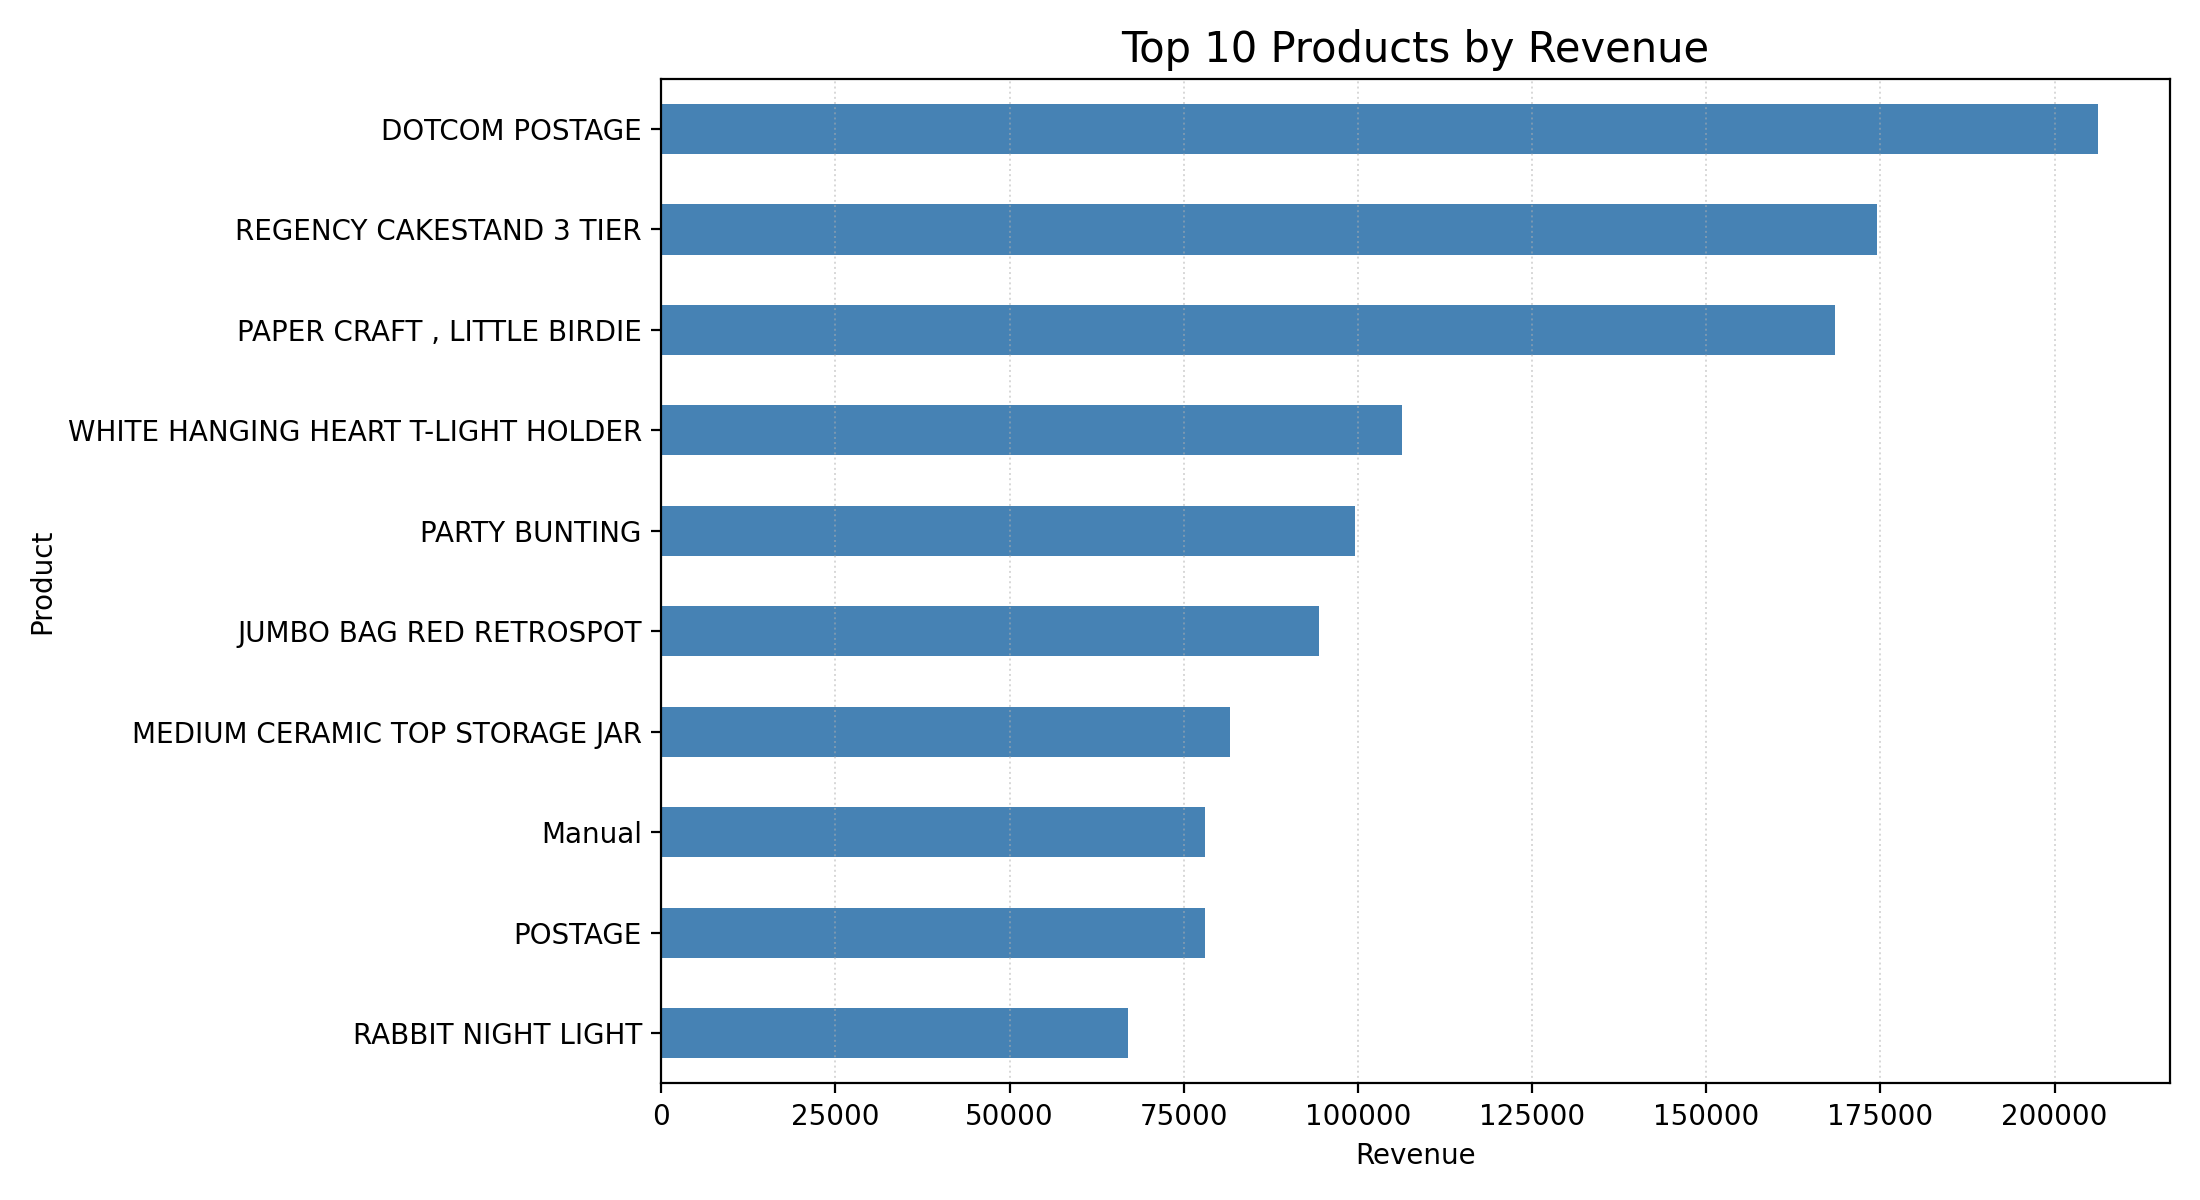
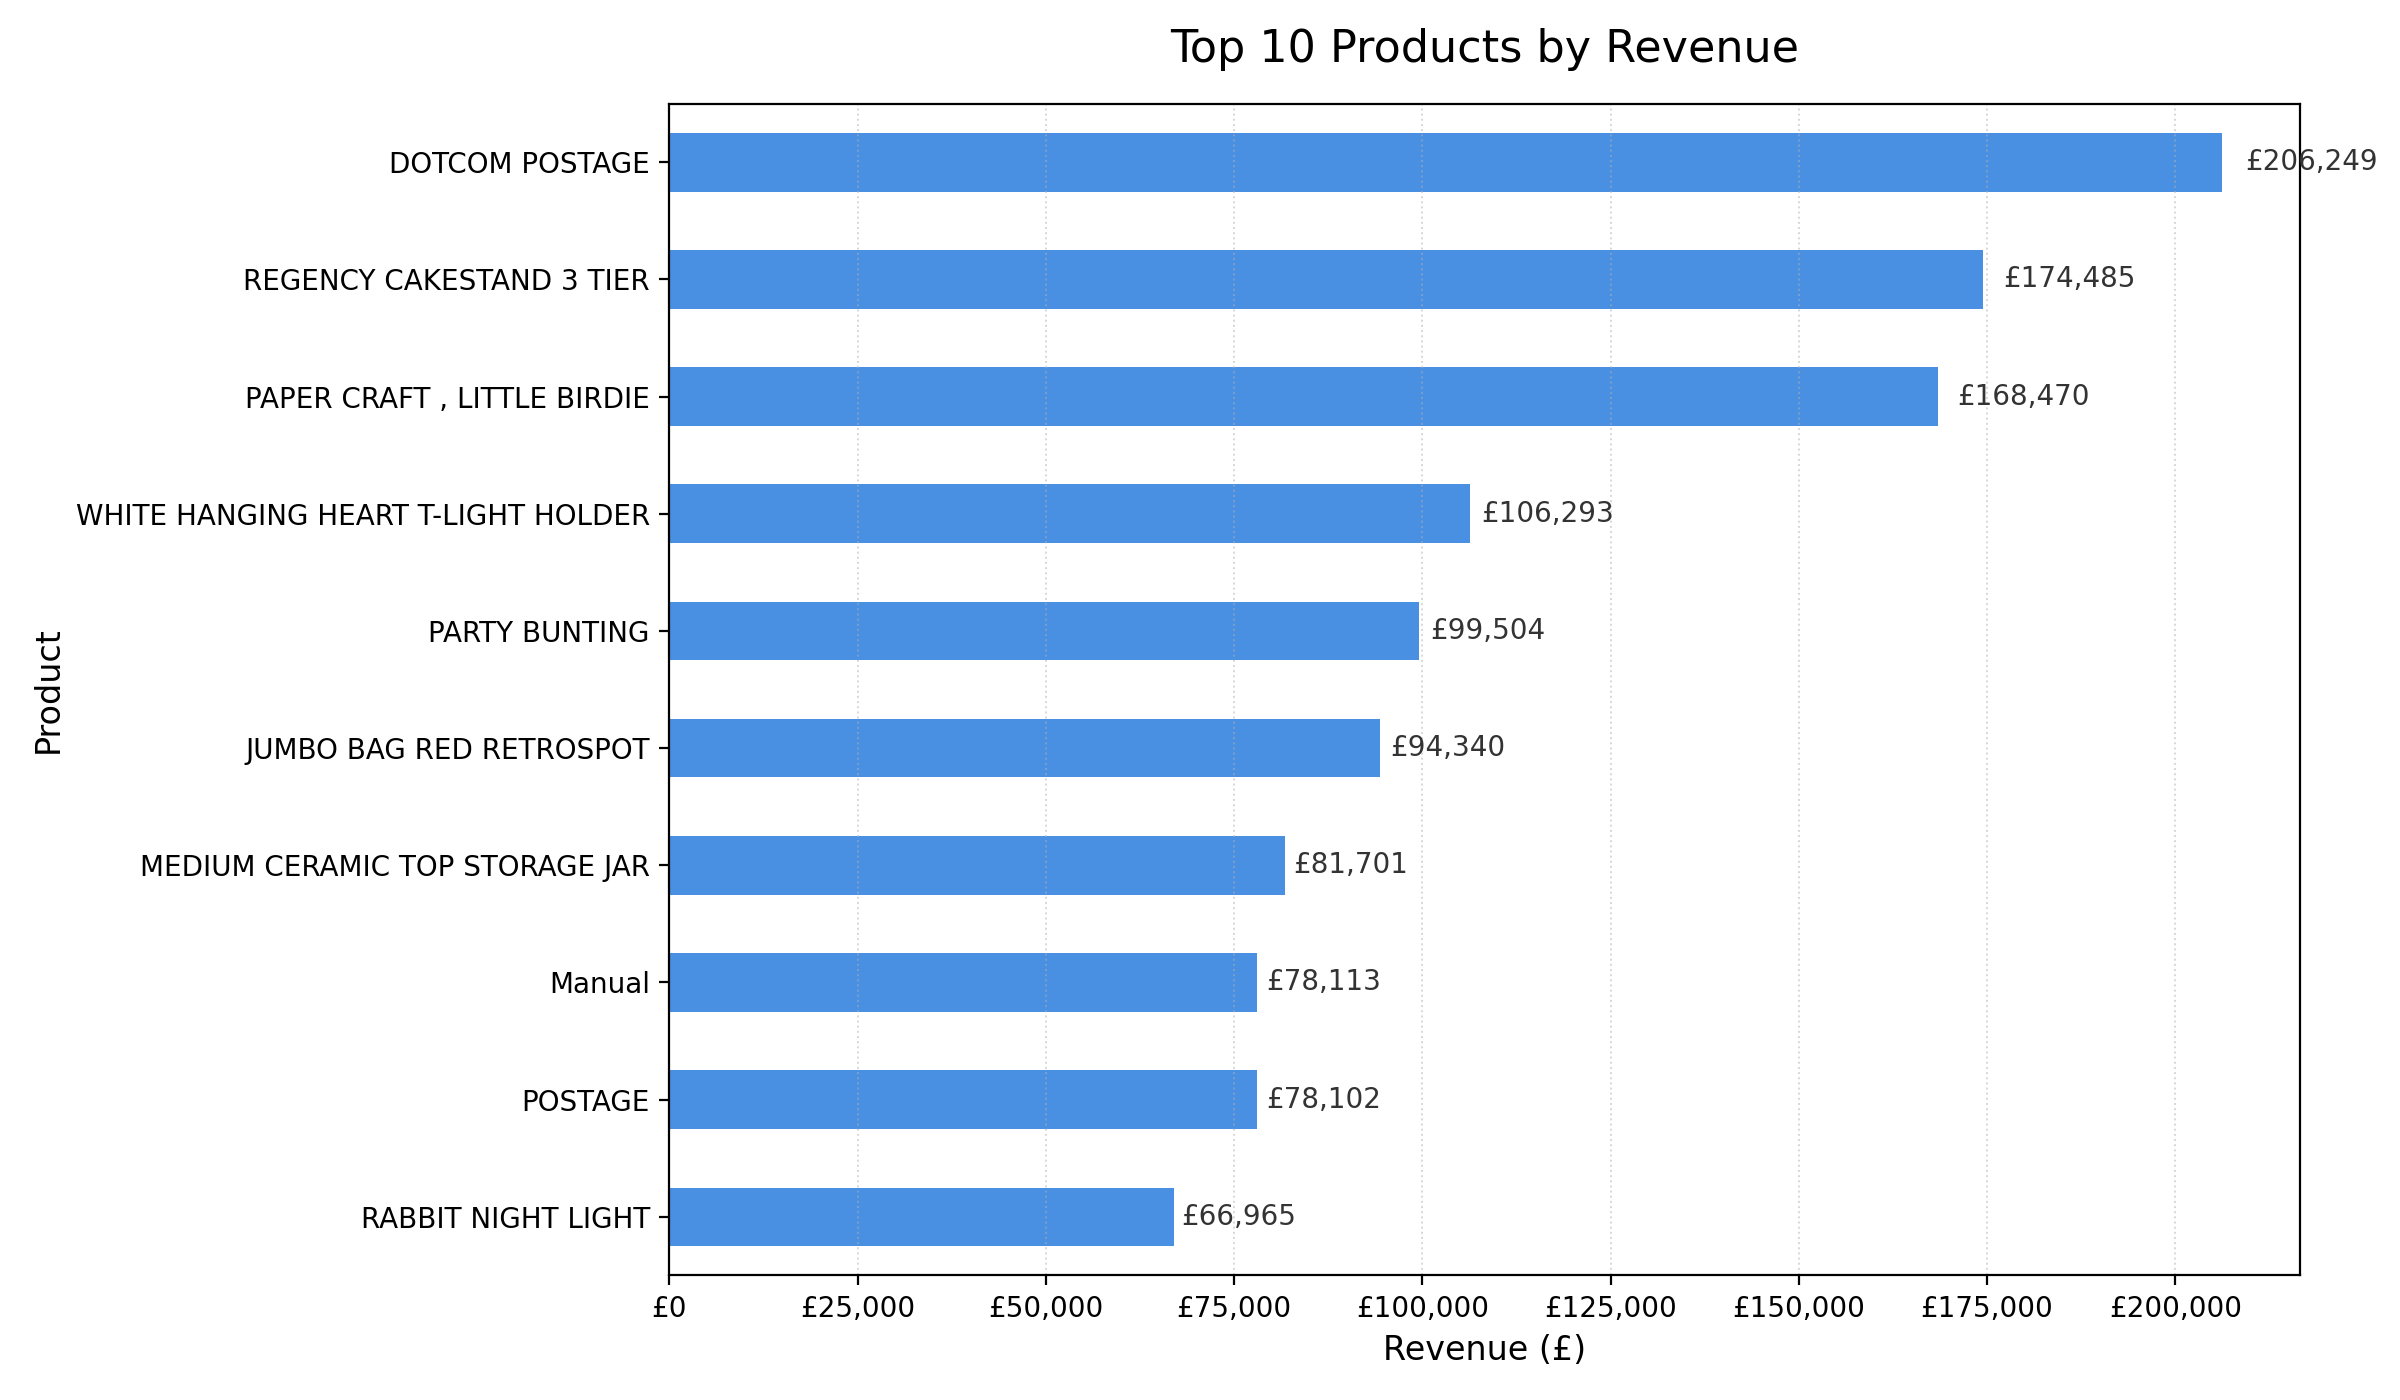
Updated the project README and improved the KPI visualisation scripts to increase clarity, professionalism, and usability across the entire workflow.
README improvements:
- Rewrote the introduction to better frame the project as an end‑to‑end data
  engineering and analytics pipeline.
- Added a "Why this project matters" section to highlight business relevance.
- Added full setup instructions (venv creation, dependencies, MySQL config).
- Included a reproducible workflow description and clarified module roles.
- Added sections for visuals, limitations, and improved project structure.
- Fixed broken badges by converting raw URLs into proper Markdown image tags.
- Improved tone, formatting consistency, and currency notation (GBP).

Visualisation improvements:
- Upgraded Top 10 Products and Top 10 Countries charts with modern styling,
  currency‑formatted x‑axis ticks, and clean value labels.
- Added consistent colour palette, spacing, and layout for readability.
- Ensured charts export cleanly to the outputs directory.
- Improved sorting and label placement for clearer business interpretation.

These changes significantly improve the clarity, presentation quality, and
professionalism of both the documentation and the visual analytics components.

Changed region(s): [[0.0309, 0.0, 0.9891, 0.9867], [0.0, 0.4317, 0.0309, 0.555]]

diff --git a/README.md b/README.md
@@ -1,10 +1,9 @@
 # 📊 Retail Sales KPI Analysis  
-`https://img.shields.io/badge/Python-3.10%2B-blue.svg`  
-`https://img.shields.io/badge/MySQL-8.0-orange.svg`  
-`https://img.shields.io/badge/Matplotlib-3.7+-orange.svg`  
-`https://img.shields.io/badge/Project-Active-brightgreen.svg`  
-[`https://knhf.github.io`](https://knhf.github.io)
-
+![Python](https://img.shields.io/badge/Python-3.10%2B-blue.svg)
+![MySQL](https://img.shields.io/badge/MySQL-8.0-orange.svg)
+![Matplotlib](https://img.shields.io/badge/Matplotlib-3.7%2B-orange.svg)
+![Status](https://img.shields.io/badge/Project-Active-brightgreen.svg)
+[![Portfolio](https://img.shields.io/badge/Portfolio-black?style=flat-square)](https://knhf.github.io)
 A practical, end‑to‑end data engineering and analytics workflow that transforms raw retail transactions into validated, structured, and business‑ready insights. The project demonstrates ingestion, cleaning, MySQL storage, automated data quality checks, KPI generation, and visual reporting.
 
 ---
